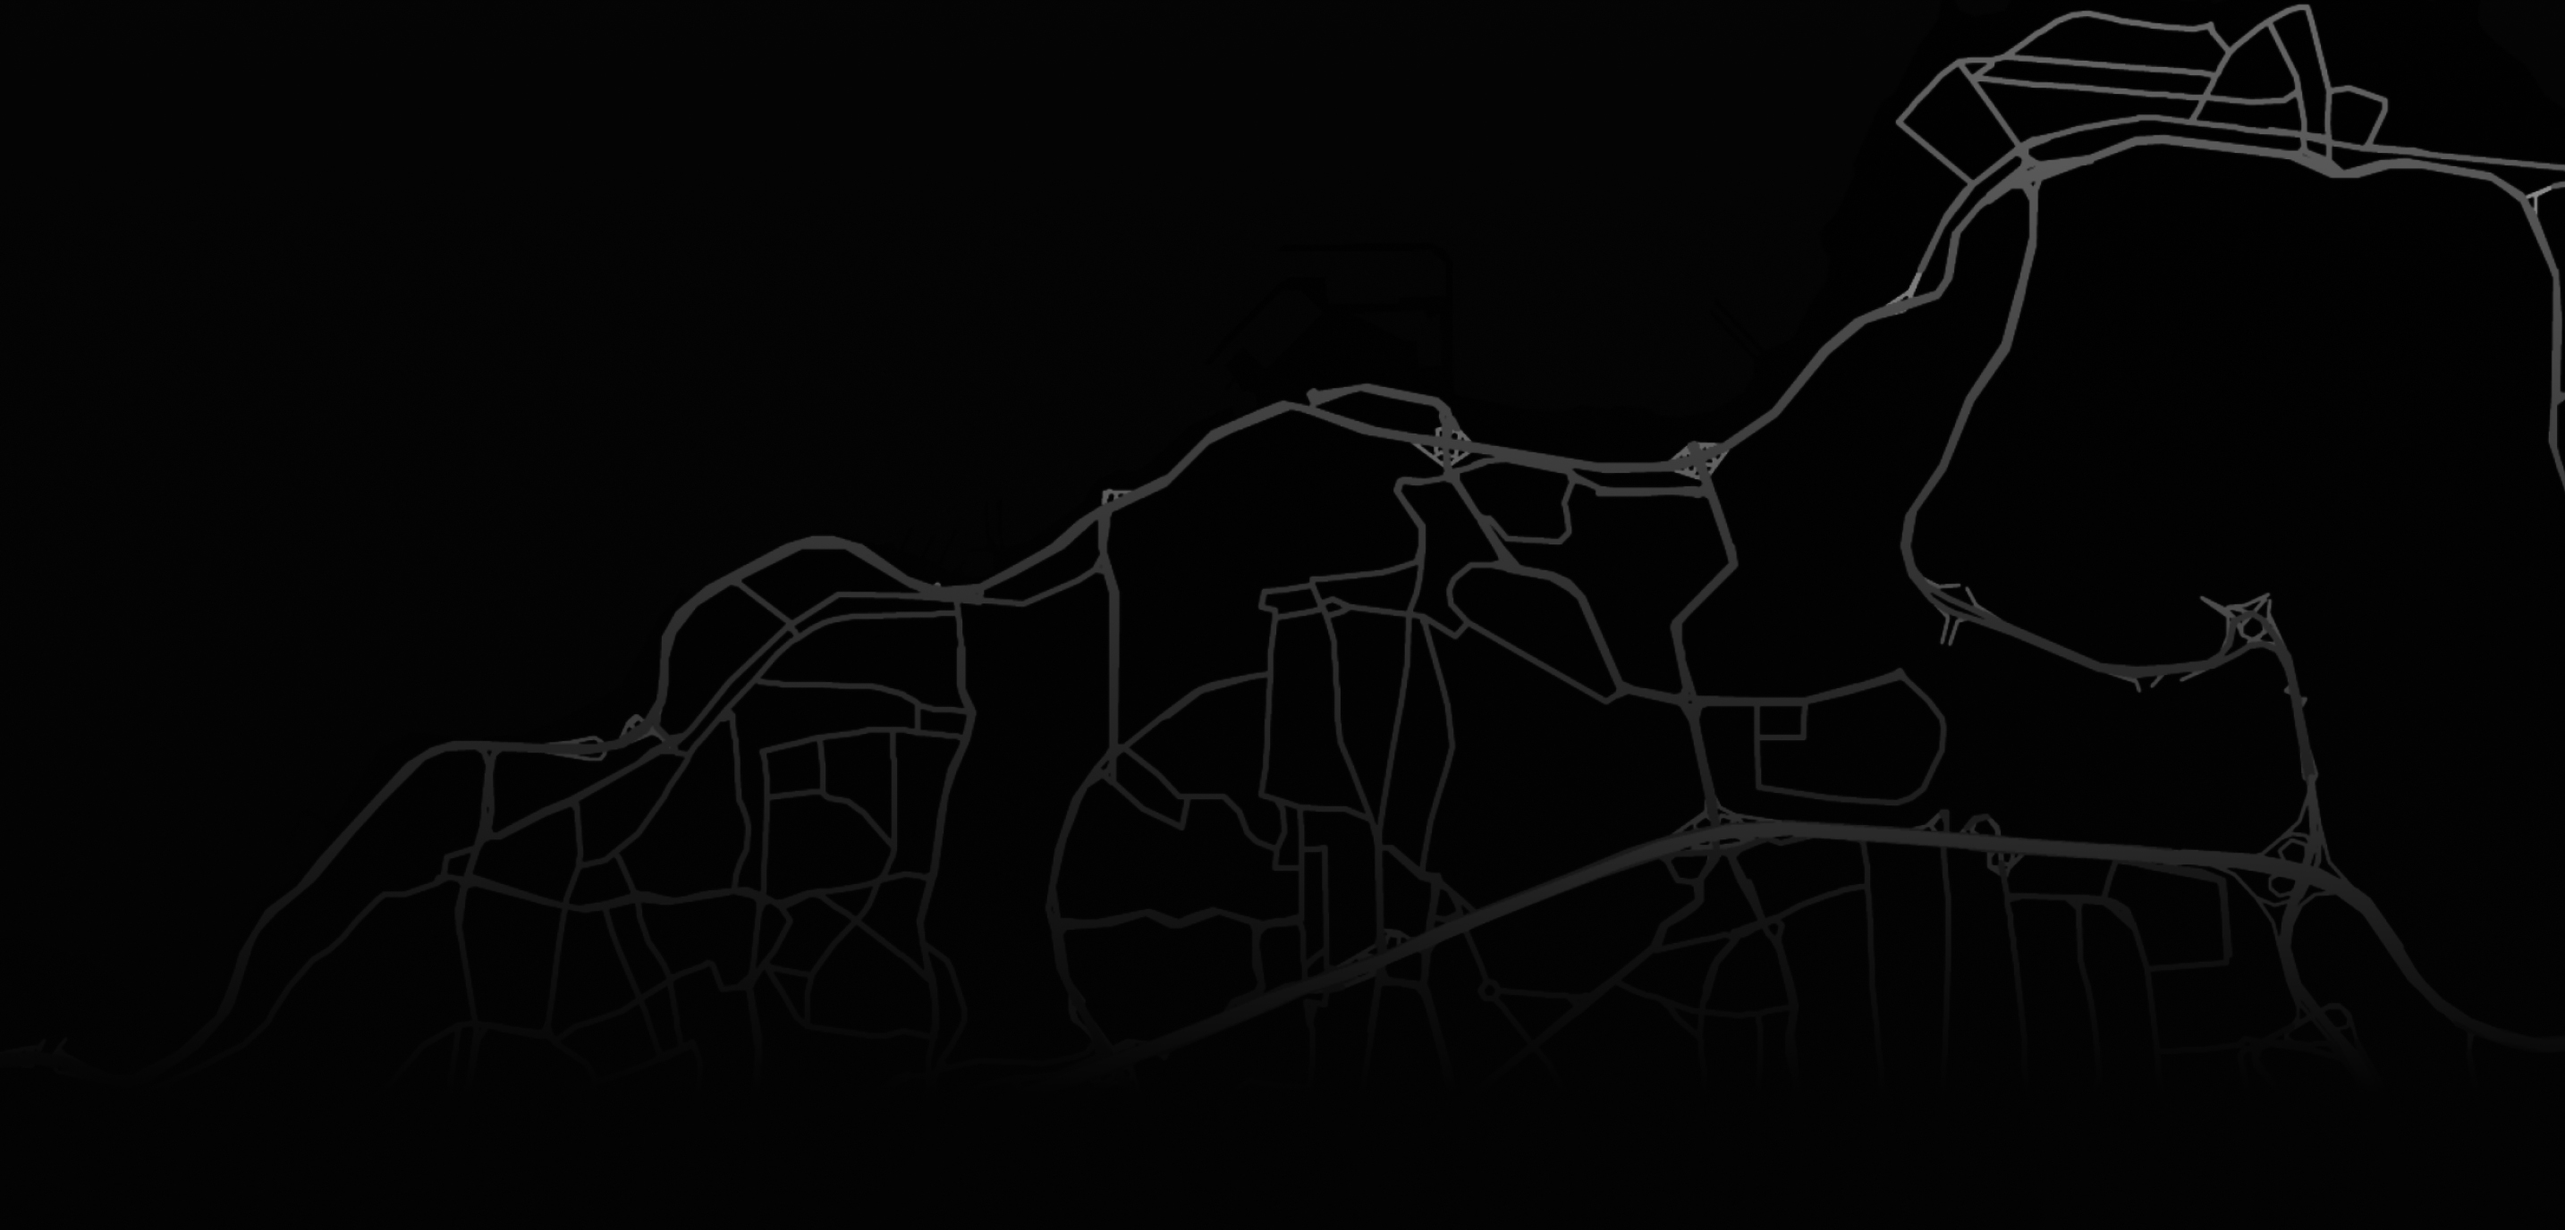
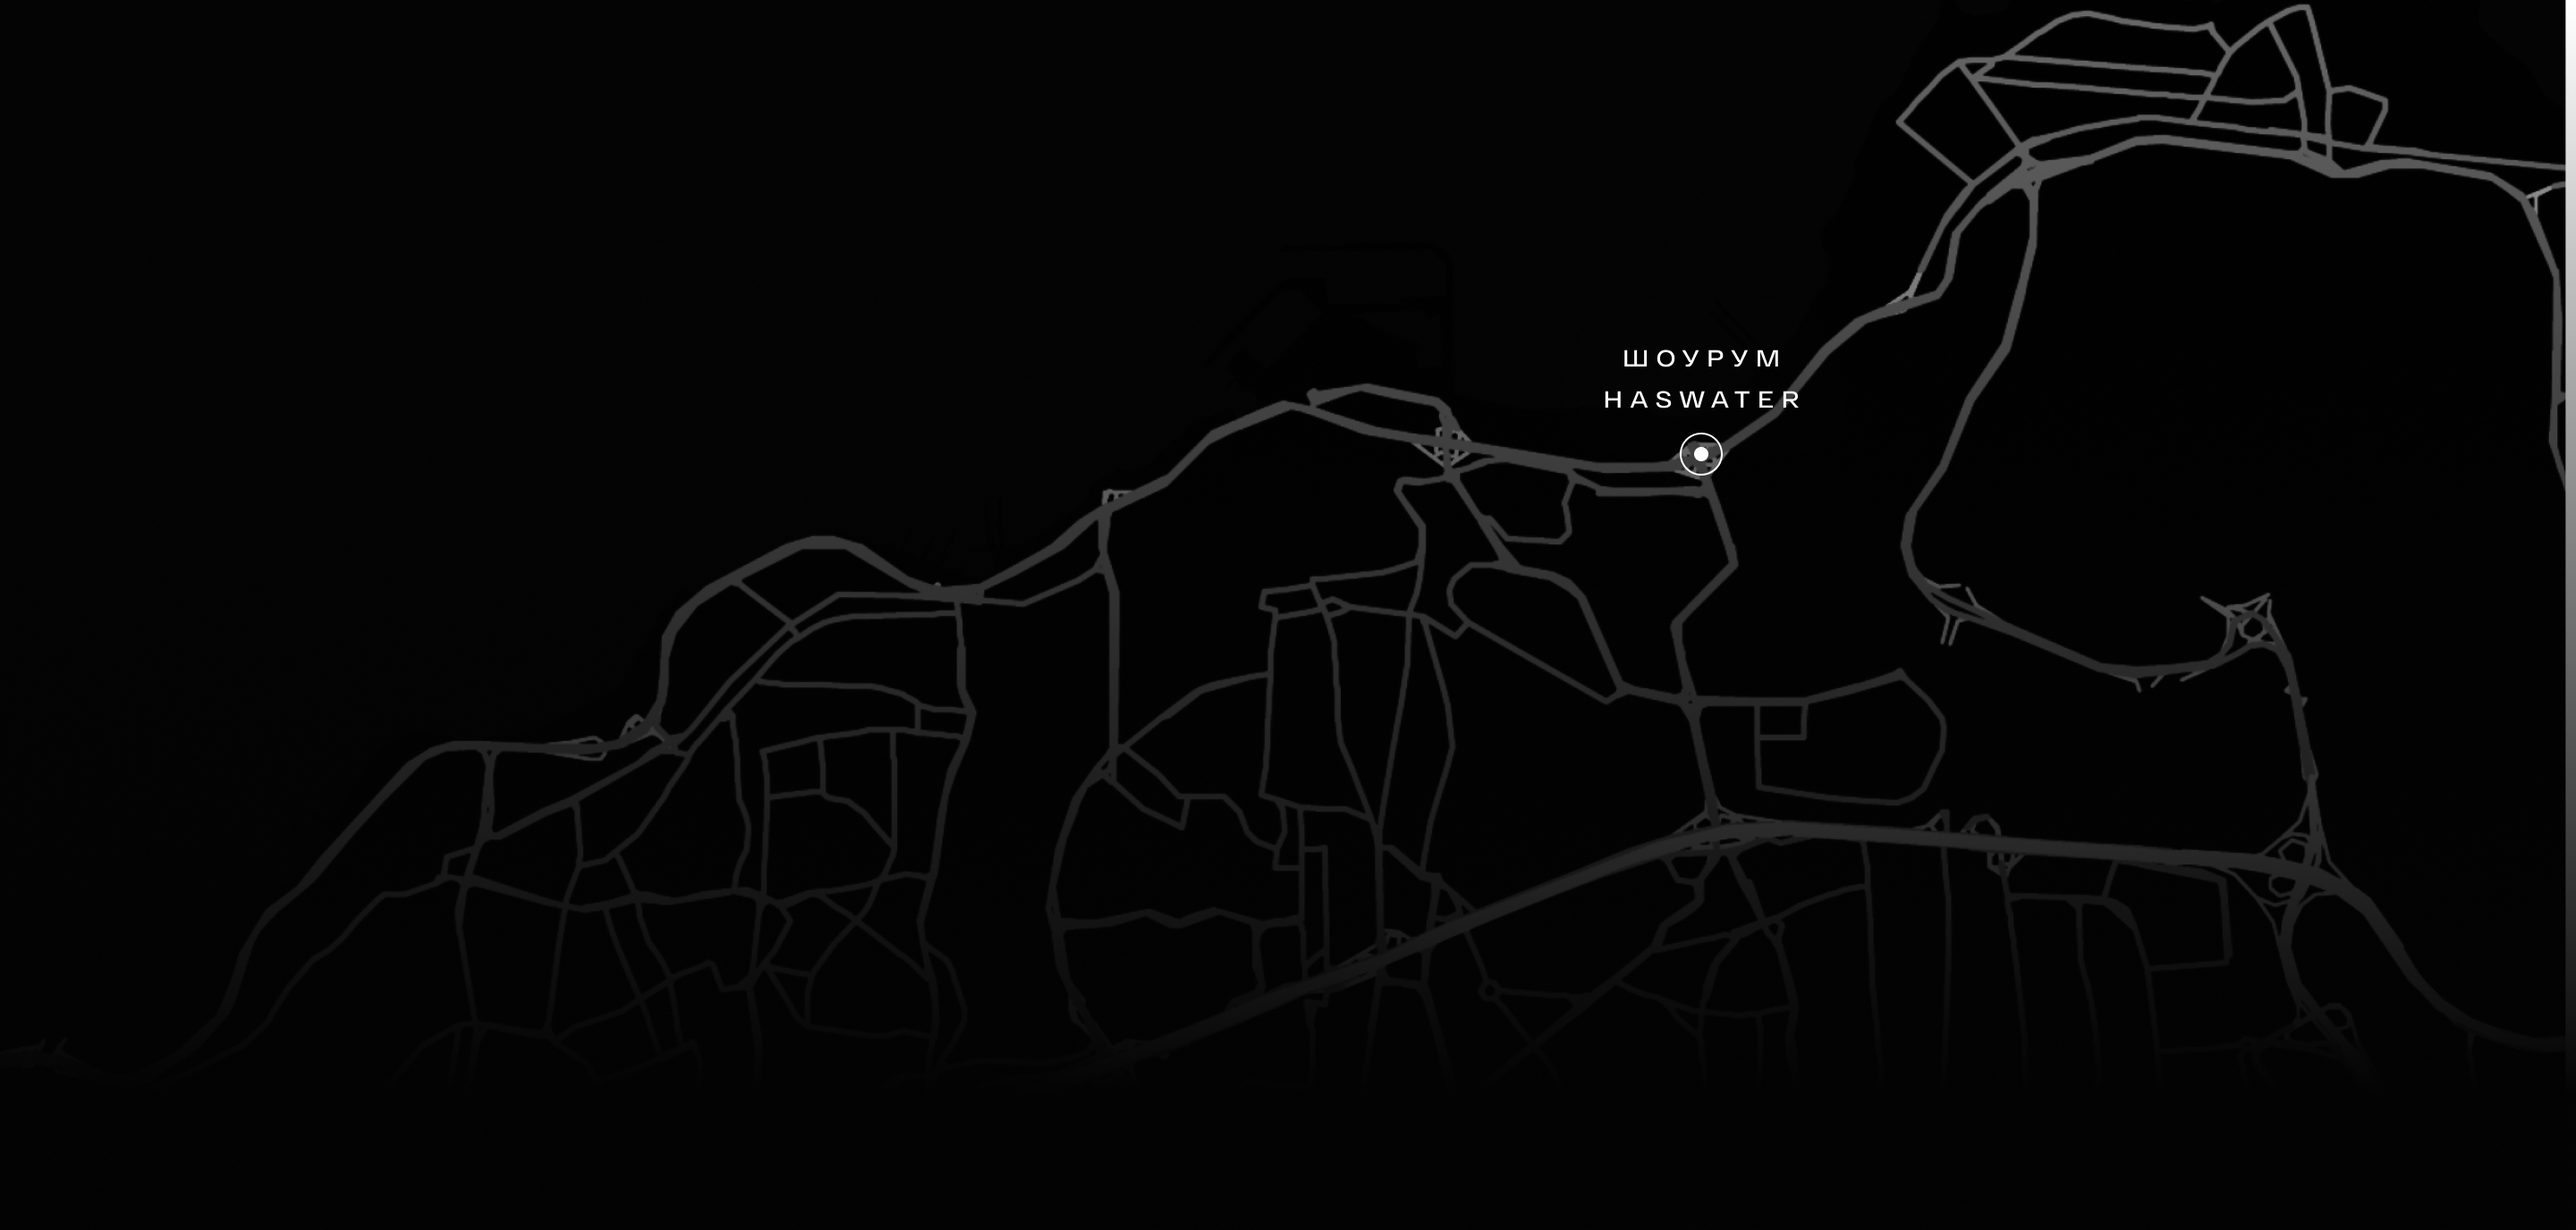
Правит ПП

diff --git a/dist/css/style.css b/dist/css/style.css
@@ -1607,6 +1607,7 @@ body {
   background-image: url("../img/map/map.jpg");
   background-repeat: no-repeat;
   background-position: center;
+  background-position-y: 66%;
   background-size: contain;
 }
 
@@ -1718,6 +1719,6 @@ body {
   color: #717171;
   text-align: center;
   text-transform: uppercase;
-  letter-spacing: 0.32em;
+  letter-spacing: 0.26em;
 }
 /*# sourceMappingURL=../maps/style.css.map */

diff --git a/src/scss/sections/map.scss b/src/scss/sections/map.scss
@@ -4,6 +4,7 @@
   background-image: url("../img/map/map.jpg");
   background-repeat: no-repeat;
   background-position: center;
+  background-position-y: 66%;
   background-size: contain;
 }
 

diff --git a/src/scss/sections/footer.scss b/src/scss/sections/footer.scss
@@ -15,5 +15,5 @@
   color: #717171;
   text-align: center;
   text-transform: uppercase;
-  letter-spacing: 0.32em;
+  letter-spacing: 0.26em;
 }
